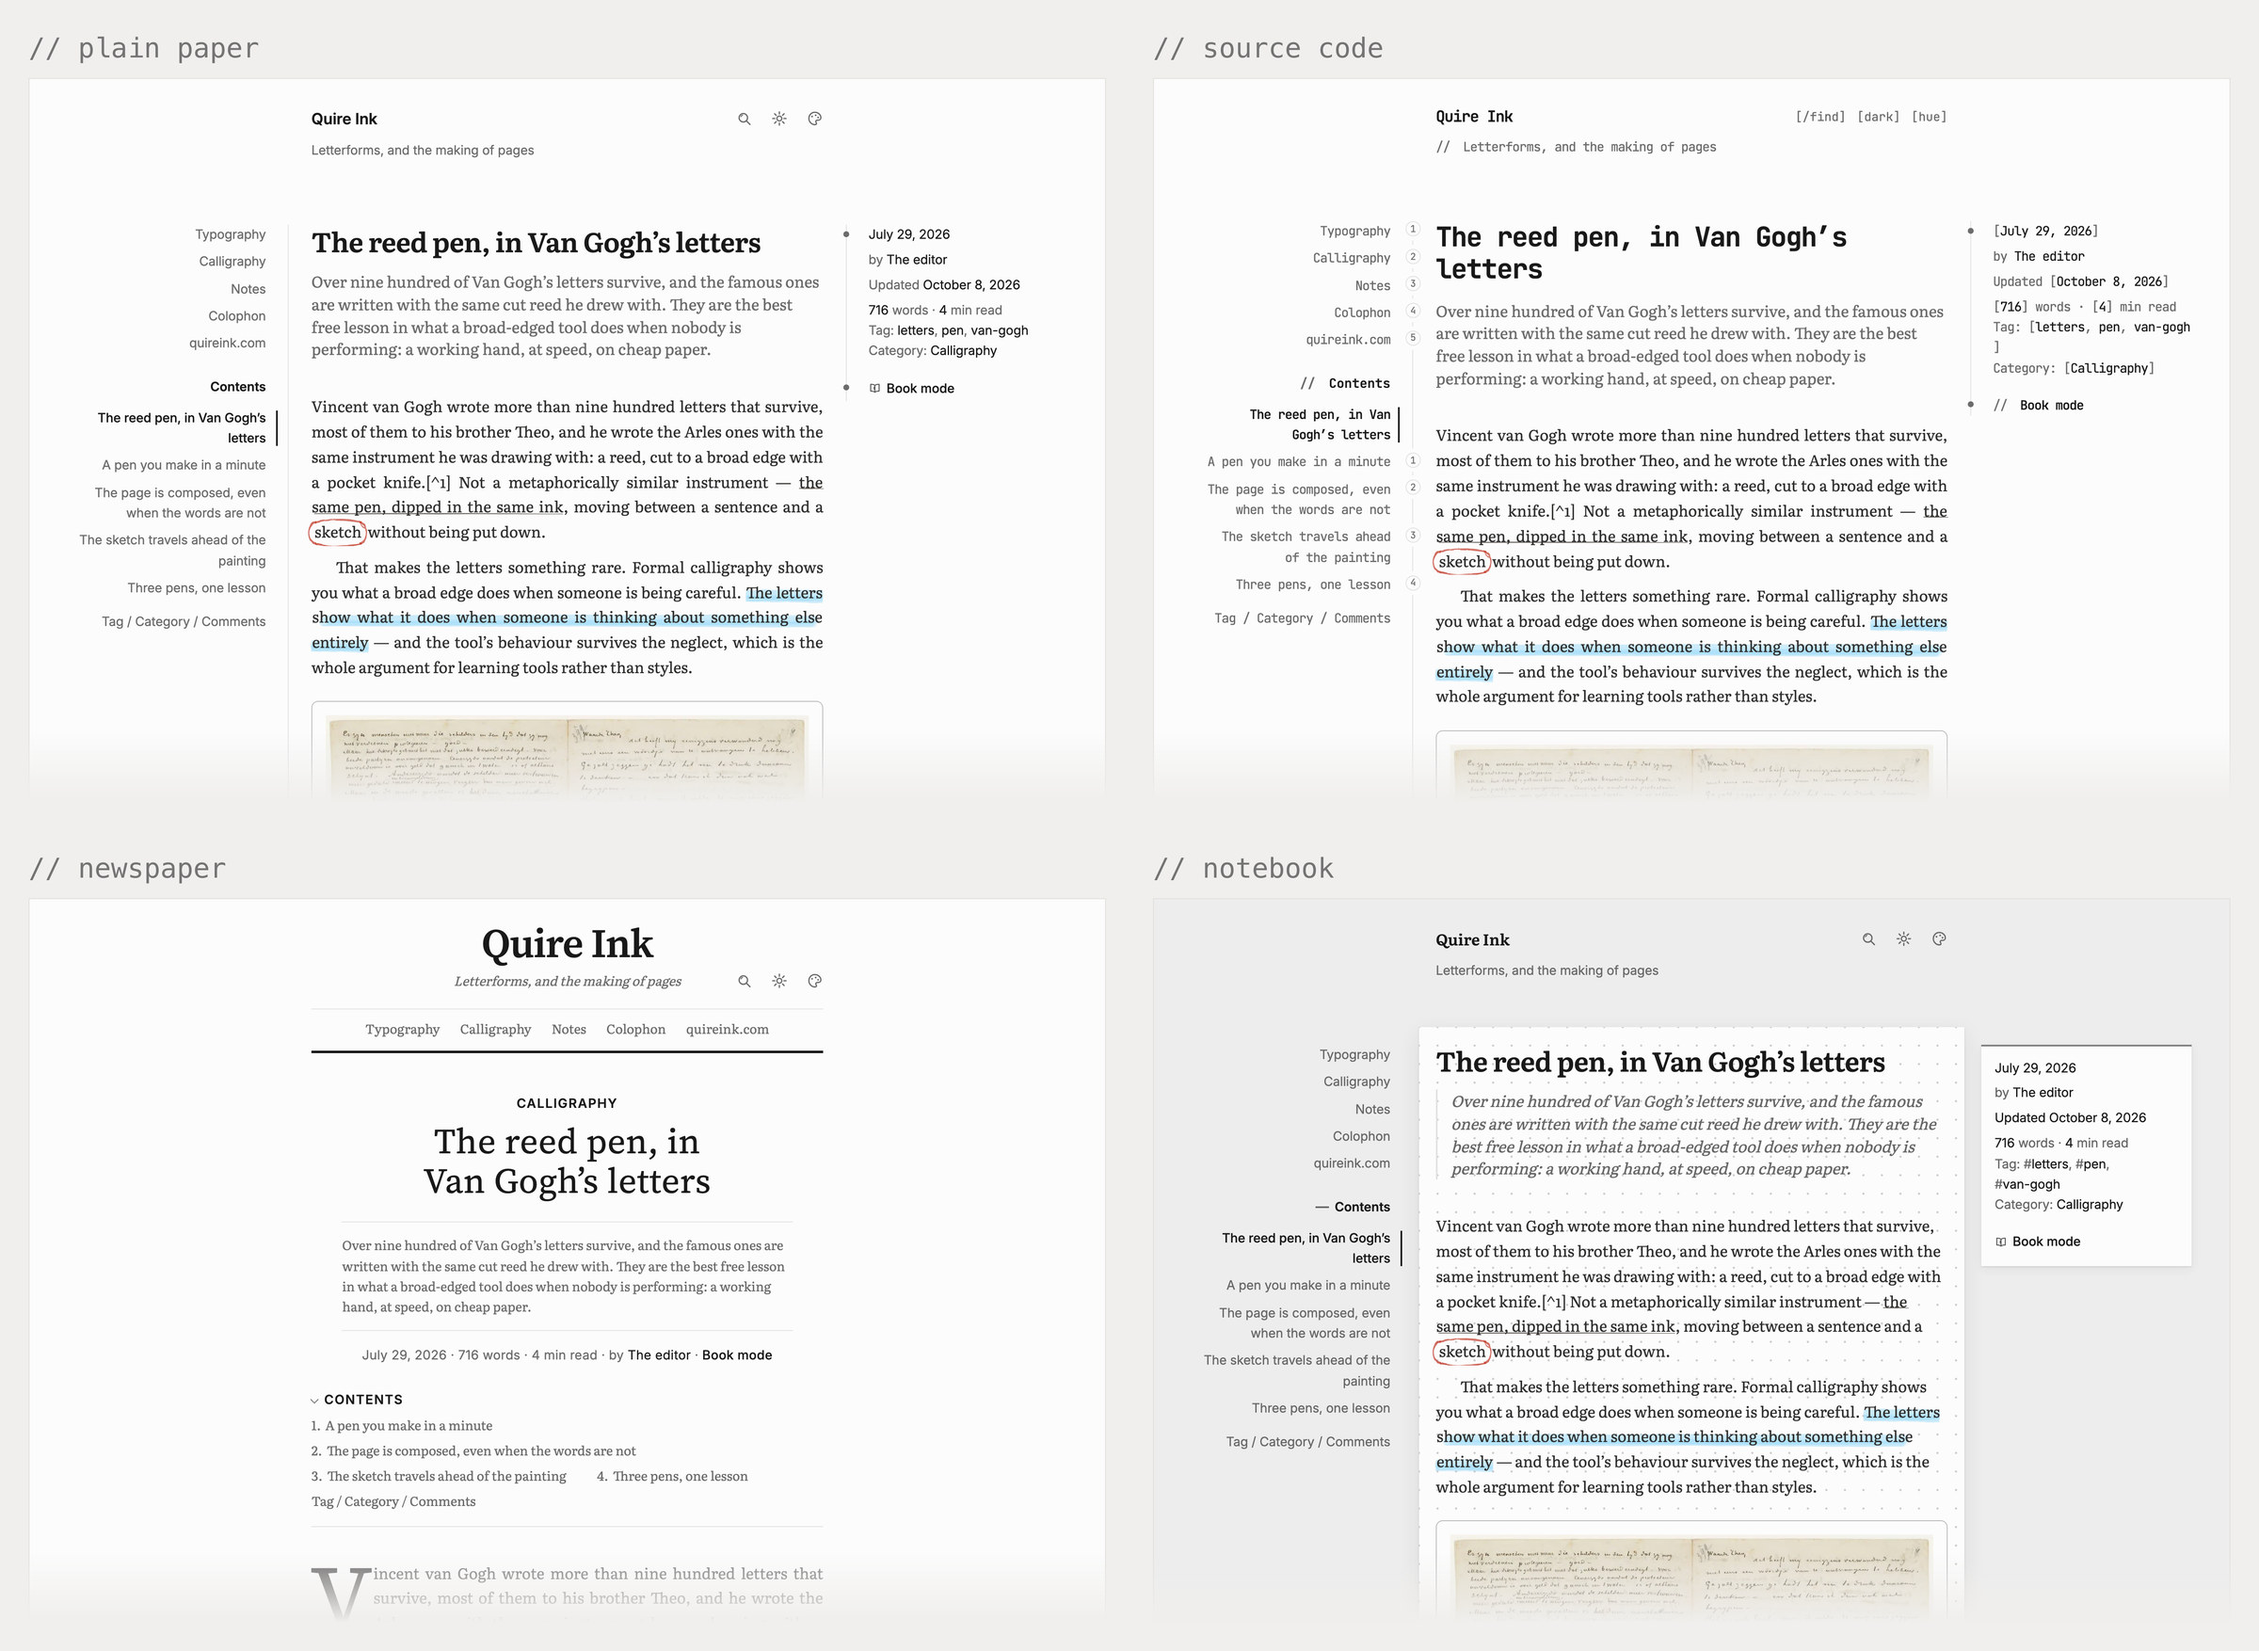
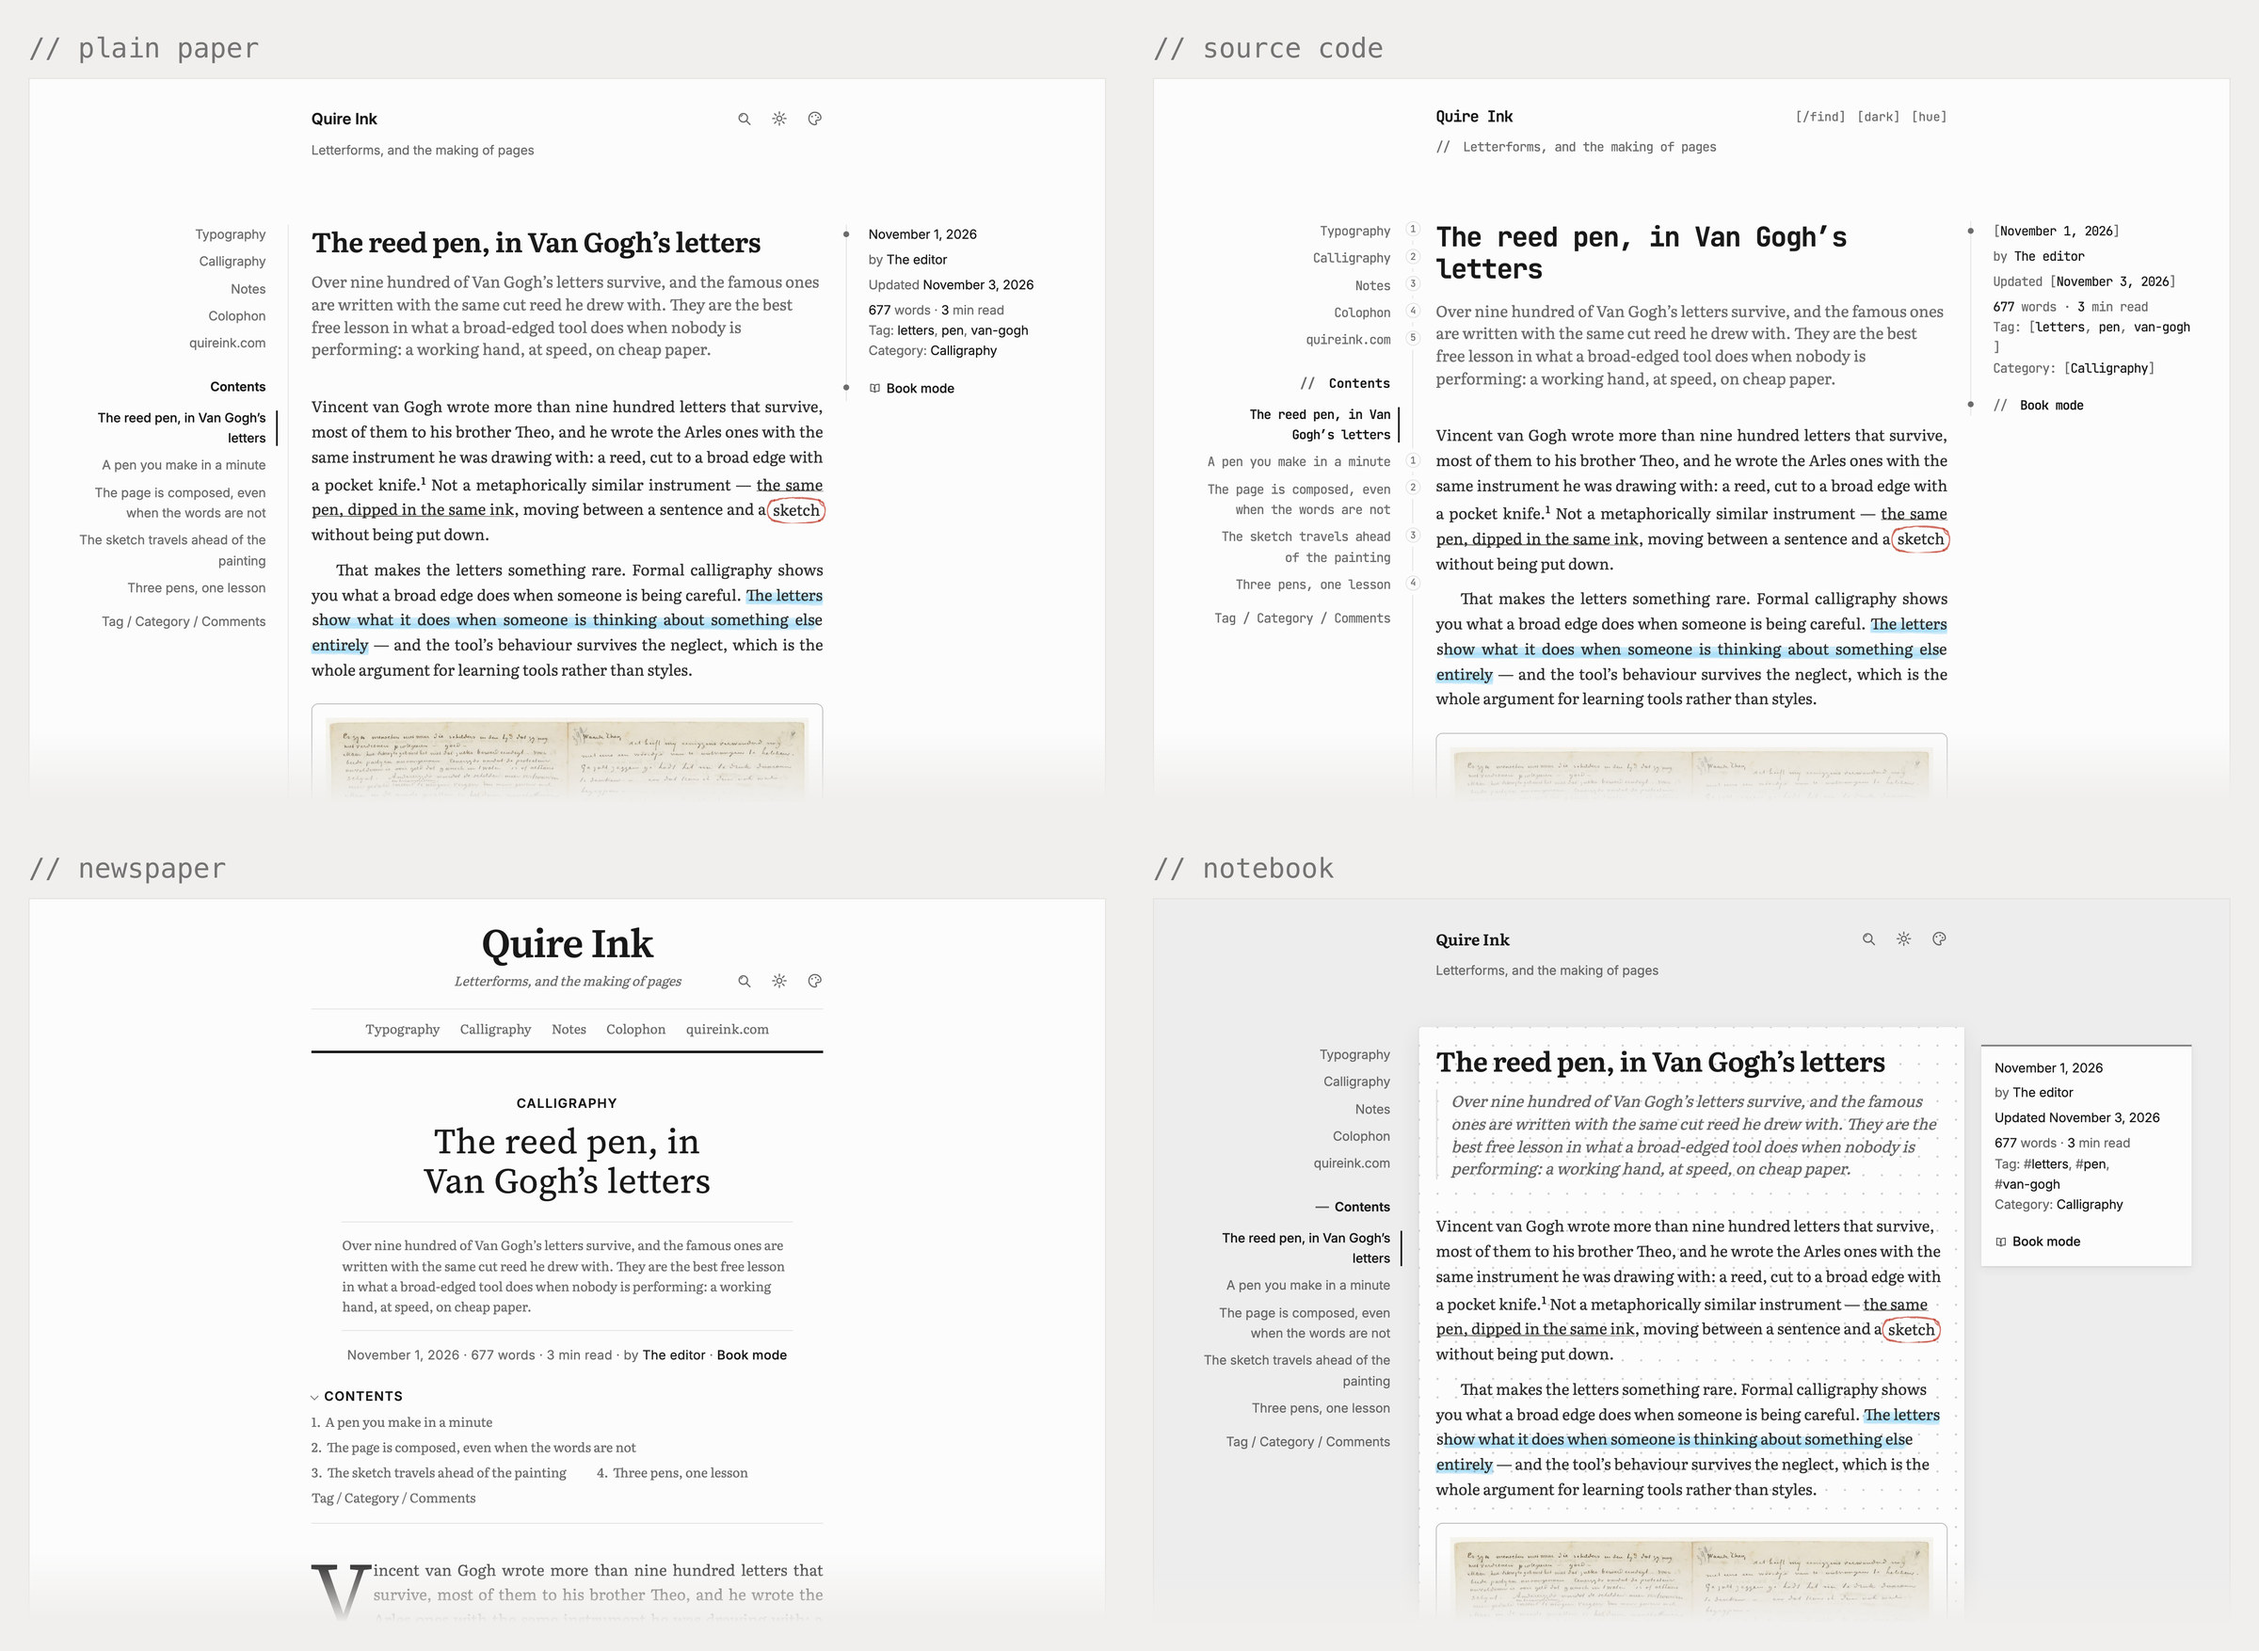
The eight README plates are retaken from the admin and the themes as they are now, and all eight come from one command: the plates showed the old admin (a filled rail row, the editor's old keys) and brackets round every count, panels carried the scroll fade, the progress bar and the back-to-top key,

diff --git a/docs/overview.md b/docs/overview.md
@@ -67,15 +67,15 @@ bun --smol src/index.ts
 
 <div align="center">
 
-<img src="demo-looks.jpg" alt="The same article in four looks: plain paper; source code, with the headline in a bold monospace and bracketed furniture; a newspaper, with a masthead, the sections under it and a drop cap; and a notebook, on dot-grid paper beside an index card" width="960">
+<img src="demo-looks.jpg" alt="The same post in the four themes: plain paper; source code, with the headline in a bold monospace and brackets round the dates; newspaper, with a masthead, the sections under it and a drop cap; and notebook, on a dot-grid sheet beside a square index card" width="960">
 
 <sub>One post, four looks, one palette. The look decides shape, type and marks; every colour on all four comes from the palette, so changing it moves all of them together.</sub>
 
-<img src="demo-reading.jpg" alt="Book mode, a two-column reader on paper with a drop cap, beside the dark theme showing a gallery of paintings above a table" width="960">
+<img src="demo-reading.jpg" alt="Book mode on paper, a title page on the left and the post set as a printed page with a drop cap on the right, beside the dark theme with a two-by-two gallery of Van Gogh paintings and their captions" width="960">
 
 <sub>Book mode and the dark theme. Neither is a filter dropped over the page; both are the reading typography itself. The fonts ship with Vietnamese and Central European accents included, so the specimen on the left is set properly instead of falling back to whatever the system has.</sub>
 
-<img src="demo-code.jpg" alt="A MathML formula in the reading face, a highlighted code block beside an unlabelled one, and three highlighter strokes" width="960">
+<img src="demo-code.jpg" alt="Three panels: a sum set in MathML between paragraphs of serif text with a Tip callout below, a numbered highlighted shell command above a plain block, and a passage on the pen with a sentence in each of five inks" width="960">
 
 <sub>Mathematics is MathML, laid out by the browser itself: no script, no stylesheet, no font file, so a post with a formula costs a reader nothing over one without. Code is highlighted on the server for the same reason. The lower block named no language, so nothing invented colours for it.</sub>
 
@@ -83,7 +83,7 @@ bun --smol src/index.ts
 
 ## Your readers get a pen
 
-<img src="demo-reader-pen.jpg" alt="Left: a post with a reader's yellow highlight and a pencil underline, and the pen bar open over a selected sentence offering five inks, underline, ring, note and copy quote. Right: the card over a highlight, with a note box, Send to my notebook, and a twenty-character notebook code under Kept on every device" width="960">
+<img src="demo-reader-pen.jpg" alt="Left: a reader's yellow highlight and pencil underline on a post, with the pen bar open over a selected phrase offering five inks, underline, ring, note and copy quote. Right: the card over the highlight, with a note box, Send to my notebook, Remove mark and a twenty-character code that keeps the marks on every device" width="960">
 
 The mark is anchored to the words rather than to a position, so it survives the author fixing a typo three paragraphs up. It lives in the reader's browser and nothing is sent anywhere, until they press *Keep on every device*: then the marks travel, by the Google sign-in commenters already have or by a twenty-character code for anyone who would rather not sign in to anything. The server keeps a hash and one row per page, never an address, and you as the owner see none of it. *Send to my notebook* opens a page on the reader's own Quire Ink, or any site that speaks Micropub, with the passage already filled in.
 
@@ -120,11 +120,11 @@ The CSS and JavaScript rows are build artefacts, the same bytes on every install
 
 <div align="center">
 
-<img src="demo-mobile.jpg" alt="Four phone screens: the post list, an article with its series contents, book mode set on paper and scrolled like a page, and the search panel filtering as it is typed" width="960">
+<img src="demo-mobile.jpg" alt="Four phone screens: the post list with a thumbnail beside the headline and a Chinese post below it, a post with its series box, book mode opening on a title page, and the menu drawer with a search box, the site menu and the post's contents" width="960">
 
 <sub>None of this is for a benchmark. It is for someone on a four-year-old phone who wanted to read four hundred words.</sub>
 
-<img src="demo-admin.jpg" alt="The Quire Ink admin: a post open in the editor with a pencil underline, a red ring and a highlighted sentence, beside the Appearance settings showing the four looks as drawn tiles, the reading fonts, the chrome font and the custom CSS box" width="960">
+<img src="demo-admin.jpg" alt="Four admin screens: Home with what was last edited, traffic and the most viewed posts; Write with the list of pieces beside what was recently edited; the editor with a post open and its pen marks; and Settings, Appearance, with the four themes drawn as previews beside the reading and site fonts" width="960">
 
 <sub>The admin as 2.2.16 draws it: server-rendered pages, no framework. Everything on the right, the four looks included, is a setting rather than code, and the chrome on both screens is wearing one of them.</sub>
 

diff --git a/docs/overview.vi.md b/docs/overview.vi.md
@@ -67,11 +67,11 @@ bun --smol src/index.ts
 
 <div align="center">
 
-<img src="demo-looks.jpg" alt="Cùng một bài viết trong bốn lối giao diện: giấy trơn; mã nguồn, tiêu đề in chữ đơn cách đậm và khung ngoặc vuông; báo in, có măng sét, chuyên mục bên dưới và chữ cái đầu in lớn; và sổ tay, trên giấy chấm lưới cạnh một tấm thẻ" width="960">
+<img src="demo-looks.jpg" alt="Cùng một bài trong bốn theme: giấy trơn; mã nguồn, tiêu đề chữ đơn cách đậm và ngoặc vuông quanh ngày tháng; báo in, có măng sét, chuyên mục bên dưới và chữ đầu đoạn lớn; sổ tay, trên tờ giấy chấm bi cạnh một tấm thẻ vuông" width="960">
 
 <sub>Một bài, bốn lối, một bảng màu. Lối quyết định hình dáng, kiểu chữ và các dấu; còn màu trên cả bốn đều lấy từ bảng màu, nên đổi bảng màu là cả bốn đổi theo.</sub>
 
-<img src="demo-admin.jpg" alt="Trang quản trị Quire Ink: một bài mở trong trình soạn với câu gạch chì, chữ khoanh đỏ, câu tô sáng và bức thư tay đóng khung; bên cạnh là trang cấu hình Giao diện với bốn lối vẽ thành thẻ, bốn font đọc, font khung trang và ô CSS riêng" width="960">
+<img src="demo-admin.jpg" alt="Bốn màn quản trị: Home với những gì vừa sửa, lượng đọc và các bài được xem nhiều; Write với danh sách bài cạnh mục sửa gần đây; trình soạn đang mở một bài với các vệt bút; và Settings, Appearance với bốn theme vẽ thành ảnh xem trước cạnh các phông đọc và phông khung" width="960">
 
 <sub>Trang quản trị như 2.2.16 vẽ nó: trang do máy chủ dựng, không framework. Mọi thứ bên phải, kể cả bốn lối giao diện, đều là tuỳ chọn bấm chọn chứ không phải code, và khung trên cả hai màn đang mặc một trong số đó.</sub>
 
@@ -79,7 +79,7 @@ bun --smol src/index.ts
 
 ## Người đọc cũng có bút
 
-<img src="demo-reader-pen.jpg" alt="Trái: một bài với vệt tô vàng và gạch chì của người đọc, thanh bút mở trên câu đang chọn với năm màu mực, gạch, khoanh, ghi chú và chép trích. Phải: thẻ trên một vệt tô, có ô ghi chú, nút Gửi về sổ tay, và mã sổ tay hai mươi ký tự dưới dòng Giữ trên mọi thiết bị" width="960">
+<img src="demo-reader-pen.jpg" alt="Trái: vệt tô vàng và gạch chì của người đọc trên một bài, thanh bút mở trên cụm từ đang chọn với năm màu mực, gạch, khoanh, ghi chú và chép trích. Phải: thẻ trên vệt tô với ô ghi chú, Gửi vào sổ tay, Bỏ vệt và mã hai mươi ký tự giữ vệt trên mọi thiết bị" width="960">
 
 Bôi một câu trên bất kỳ bài nào là hiện một thanh nhỏ: năm màu mực, gạch chì, khoanh bút bi, ghi chú và chép trích. Dấu vẽ bằng đúng nét tay của trang, bám vào chữ chứ không bám vị trí, nên tác giả sửa lỗi chính tả ba đoạn phía trên thì dấu vẫn nằm yên. Dấu sống trong trình duyệt của người đọc, không gửi đi đâu.
 
